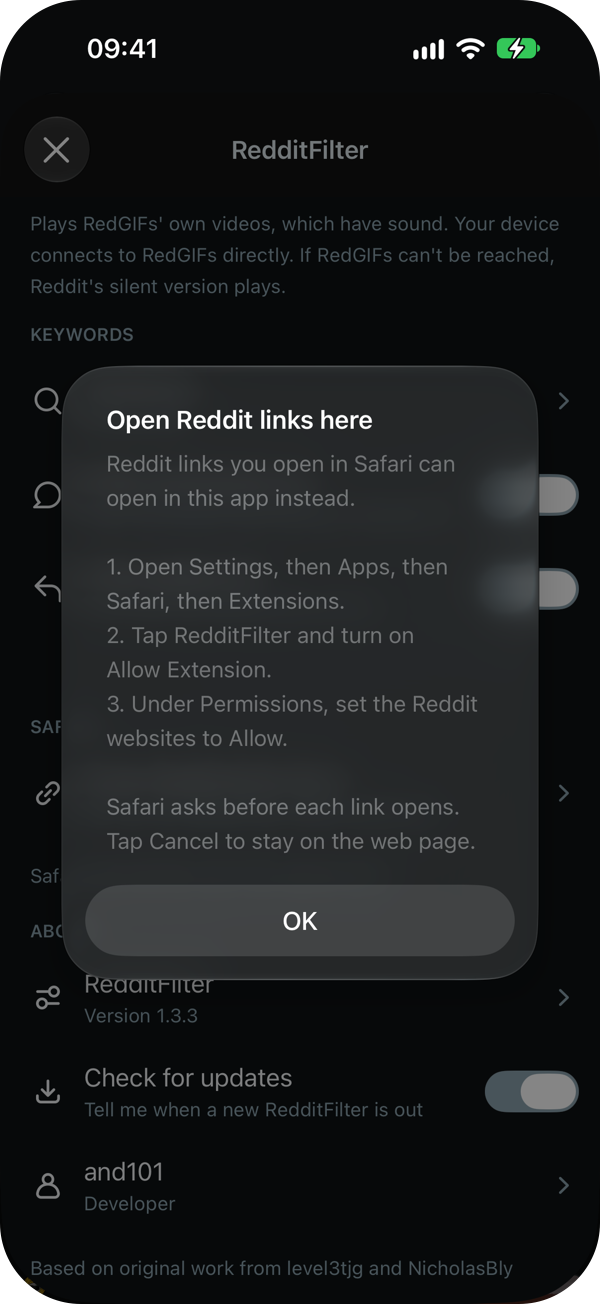
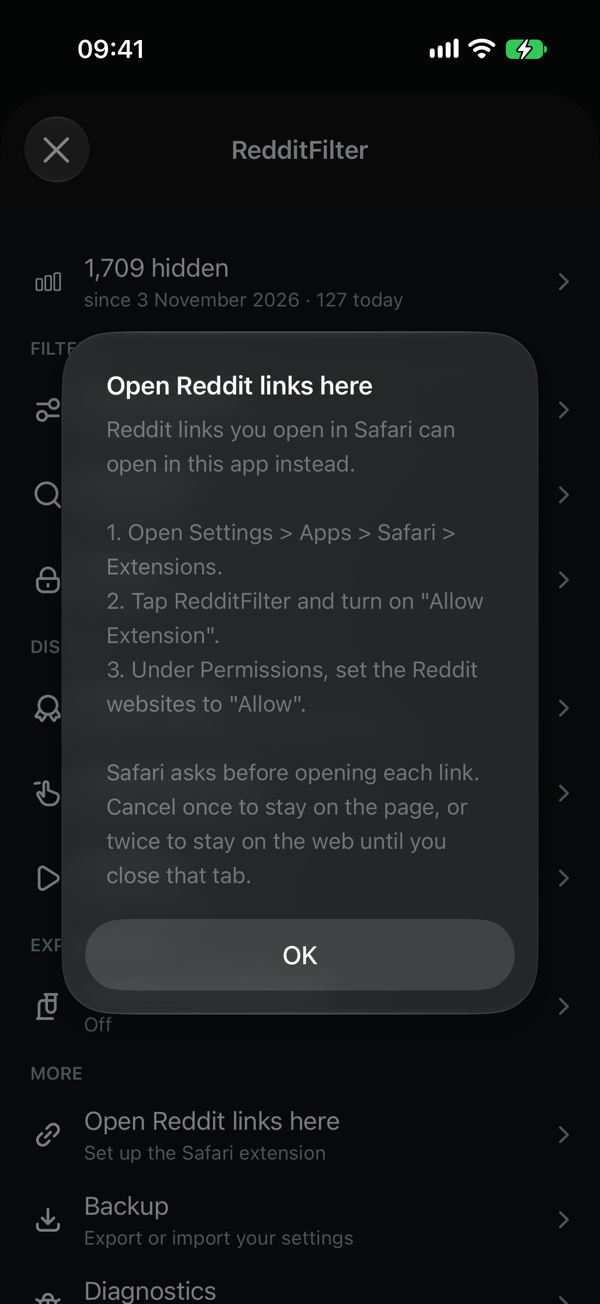
Update README for 1.4.1

diff --git a/README.md b/README.md
@@ -29,13 +29,13 @@ To get it, see [Install](#install).
   </tr>
   <tr>
     <td align="center" width="25%"><img src="screenshots/settings.png" width="200" alt="RedditFilter settings: root page"></td>
-    <td align="center" width="25%"><img src="screenshots/settings2.png" width="200" alt="RedditFilter settings: Collapsing comments"></td>
+    <td align="center" width="25%"><img src="screenshots/settings2.png" width="200" alt="RedditFilter settings: Swipe gestures"></td>
     <td align="center" width="25%"><img src="screenshots/settings3.png" width="200" alt="RedditFilter settings: Keywords"></td>
     <td align="center" width="25%"><img src="screenshots/safari.png" width="200" alt="Steps to turn on the RedditFilter Safari extension"></td>
   </tr>
   <tr>
     <td align="center"><b>Settings</b><br><sub>Filters, display and more</sub></td>
-    <td align="center"><b>Collapsing comments</b><br><sub>Swipe or tap, and AutoMod</sub></td>
+    <td align="center"><b>Swipe gestures</b><br><sub>Collapse comments, vote and save</sub></td>
     <td align="center"><b>Keywords</b><br><sub>Words to hide, and comment options</sub></td>
     <td align="center"><b>Open Reddit links here</b><br><sub>Set up the Safari extension</sub></td>
   </tr>
@@ -78,7 +78,7 @@ These are new, so they're off by default. They work in any app language.
 - **Open Reddit links here**: a separate Safari extension opens incoming Reddit links from Safari in the app, asking first each time. It does not block ads or enable the article browser.
 - **Stats**: see how much has been hidden in total, today and by filter, and how many tracker requests were blocked. It stays on your device.
 - **Backup**: export your settings, keywords and stats to a file, and import them later. No account details are included.
-- **Diagnostics**: check whether RedditFilter still finds posts and ads in Reddit's responses, see how Reddit was last closed, check Safari article links, and share a report with a bug report. Nothing leaves your device unless you share it.
+- **Diagnostics**: check whether RedditFilter still finds posts and ads in Reddit's responses, see how Reddit was last closed, check article links and settings scrolling, and share the results with a bug report. Nothing leaves your device unless you share it.
 - **Update check**: RedditFilter checks GitHub once a day for a new release. Turn it off under **About**.
 
 ## Safari article links
